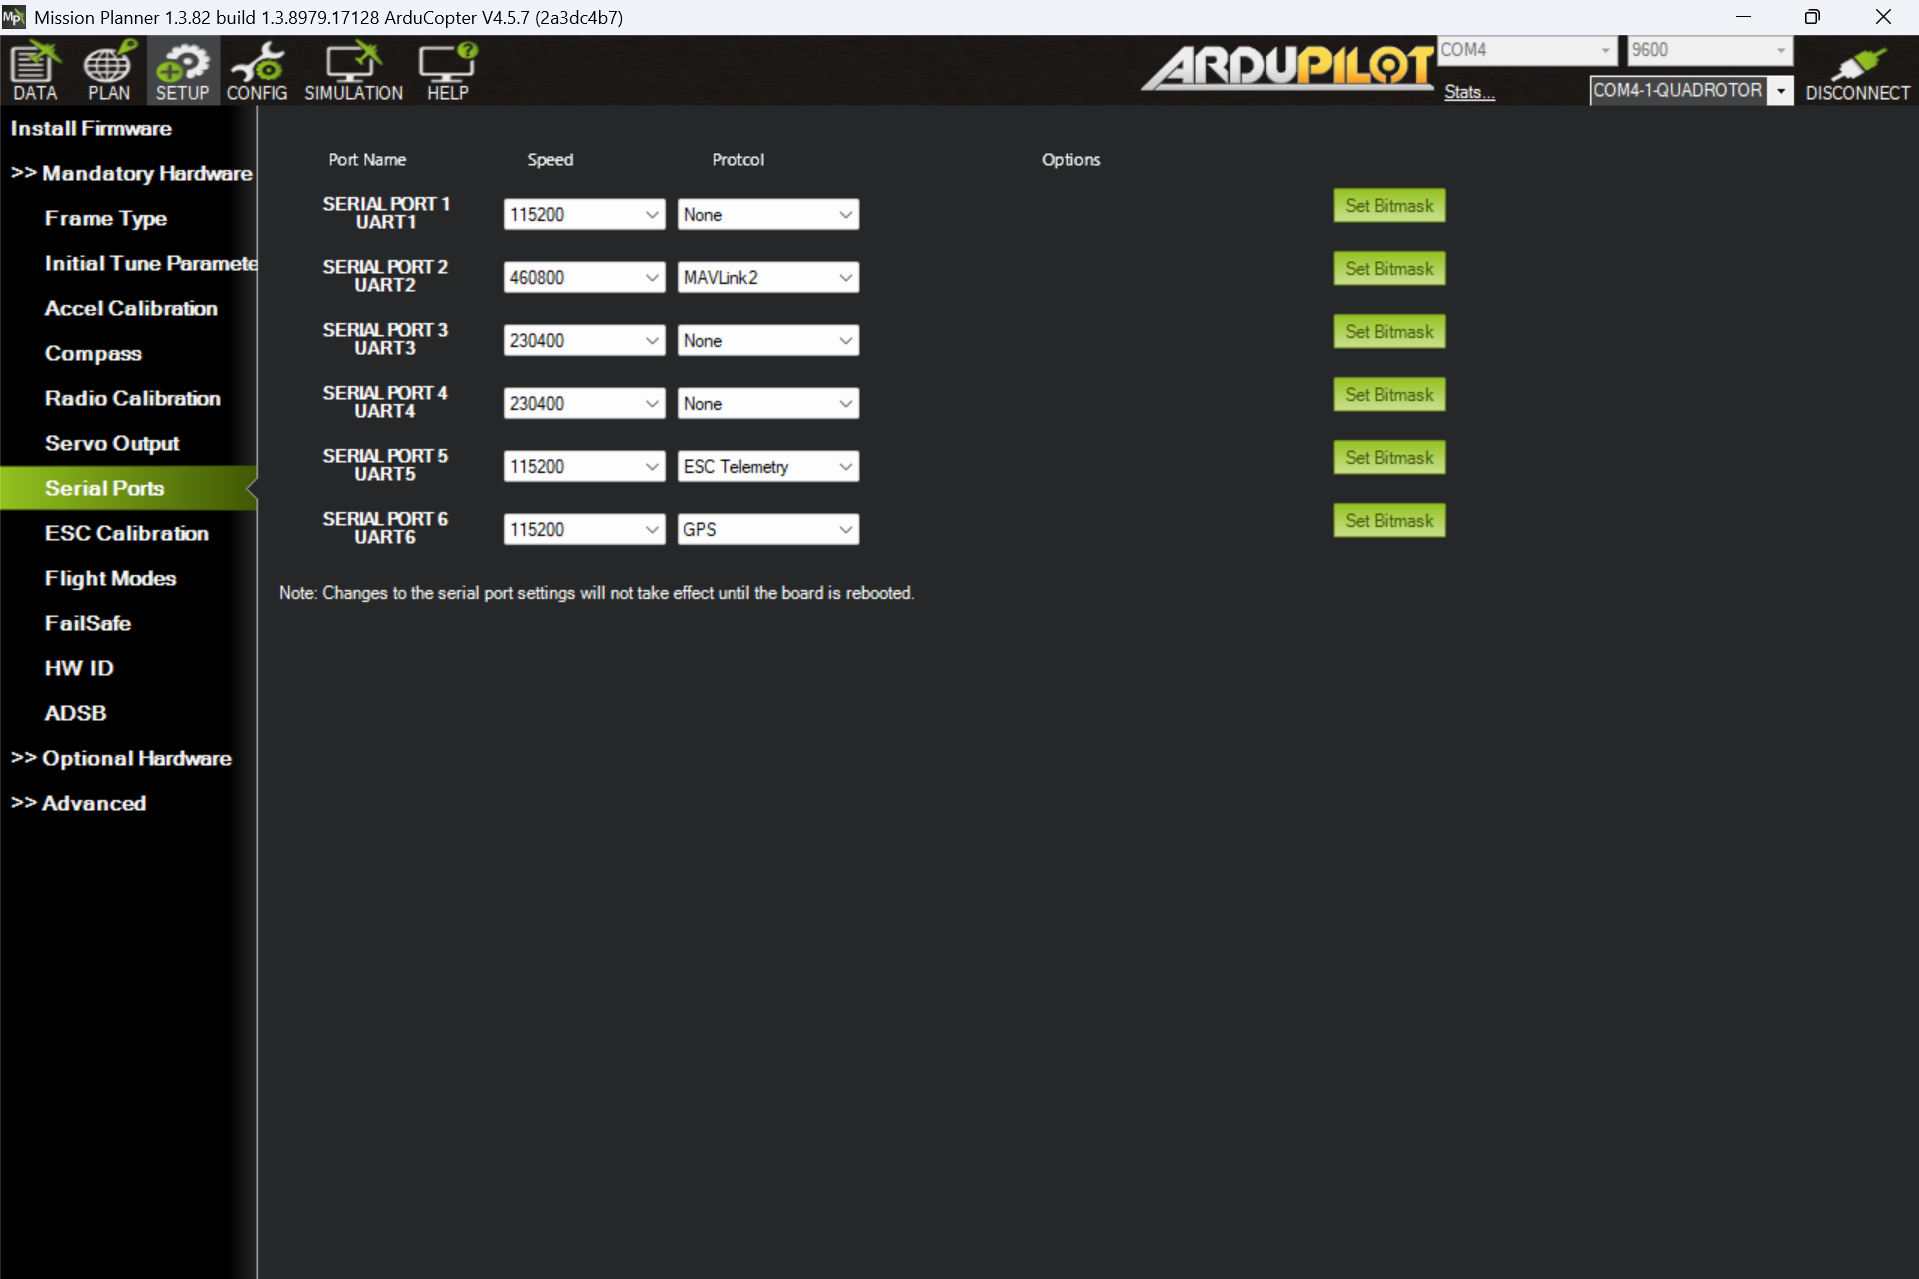
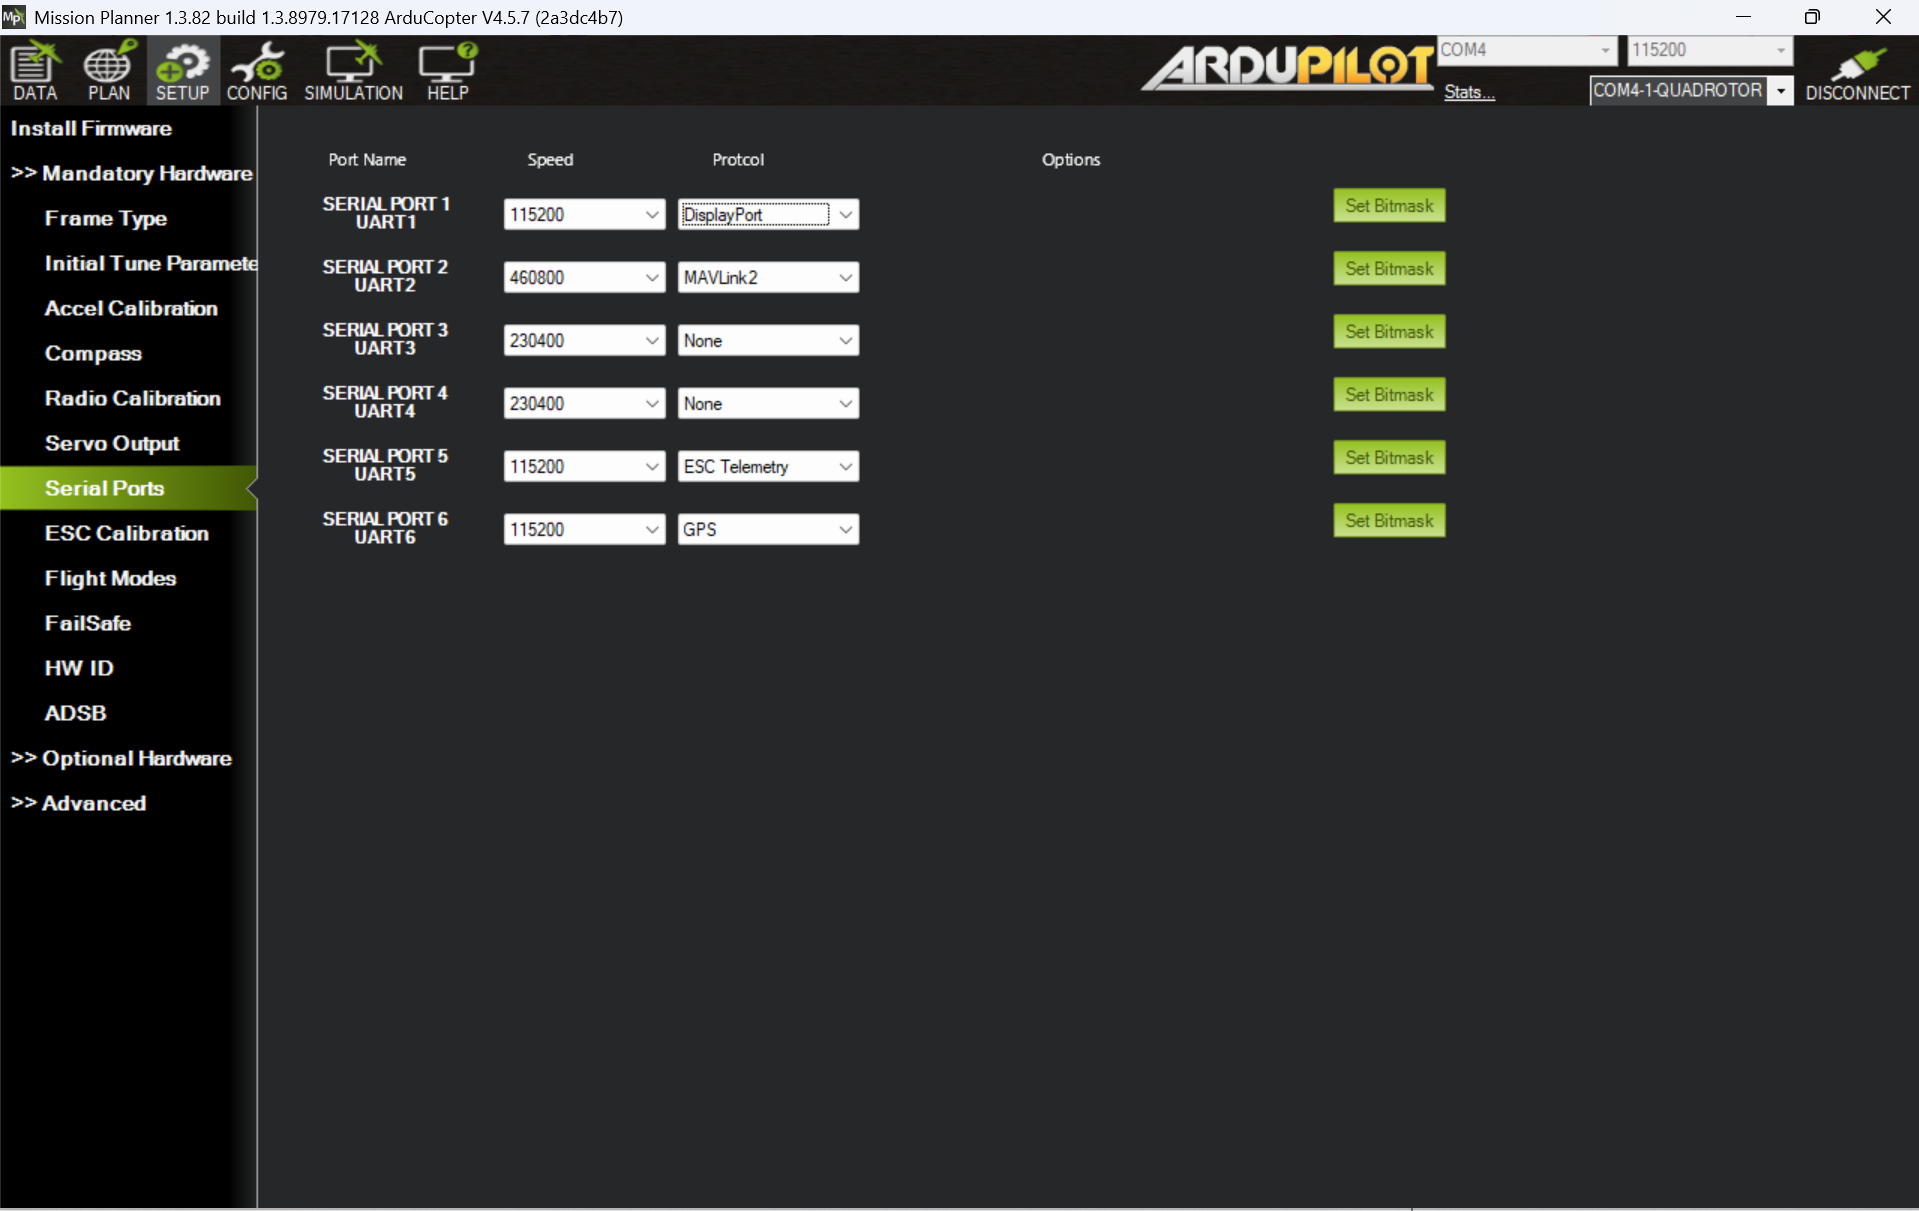
setting vtx dan osd walksnail

diff --git a/ardupilot/nazgul/settings.md b/ardupilot/nazgul/settings.md
@@ -4,15 +4,14 @@ Spesifikasi :
 
 * FC : SpeedyBee F405 V4 
 * ESC : SpeedyBee BLS 55A
-* [Product Website](https://www.speedybee.com/speedybee-f405-v4-bls-55a-30x30-fc-esc-stack/)
-* [User Manual](https://store-fhxxhuiq8q.mybigcommerce.com/product_images/img_SpeedyBee_F405_V4_Stack/SpeedyBee_F405_V4_Stack_Manual_EN.pdf)
 * Radio Receiver : Matek RP4TD
 * GPS : HGLRC M10
 
-## Peripherals ##
+Dokumentasi FC ESC
 
-* Matek RP4TD : UART2
-* GPS HGLRC (no compass) : UART6 
+* [Product Website](https://www.speedybee.com/speedybee-f405-v4-bls-55a-30x30-fc-esc-stack/)
+* [User Manual](https://store-fhxxhuiq8q.mybigcommerce.com/product_images/img_SpeedyBee_F405_V4_Stack/SpeedyBee_F405_V4_Stack_Manual_EN.pdf)
+* [Website Ardupilot](https://ardupilot.org/copter/docs/common-speedybeef4-v3.html)
 
 ## Settings ##
 
@@ -42,6 +41,7 @@ Spesifikasi :
 
 4. Set Serial Port
 
+    * UART1 : 115200 - DisplayPort
     * UART2 : 460800 - MavLink2
     * UART5 : 115200 - ESC Telemetry
     * UART6 : 115200 - GPS
@@ -77,6 +77,8 @@ Spesifikasi :
 
     ![Motor Test](img/07-motor-test.png)
 
+    Urutan dan arah putaran bisa dilihat [di dokumentasi Ardupilot](https://ardupilot.org/copter/docs/connect-escs-and-motors.html)
+
 10. MavLink via ELRS Backpack
    
     * RSSI_TYPE = 5
@@ -90,6 +92,15 @@ Spesifikasi :
 
     ![MP via UDP](img/09-mp-via-backpack.png)
 
+12. Setup Walksnail OSD
+
+    * OSD_TYPE = 5 (MSP_DISPLAYPORT)
+    * OSD_CELL_COUNT = 4
+    * MSP_OPTIONS = 0
+    * SERIAL1_PROTOCOL = 42 (DisplayPort)
+    * SERIAL1_BAUD = 115
+
+MSP_OPTIONS set bit 0 = 0 (do NOT EnableTelemetryMode)
 
 ## Connection Diagram ##
 
